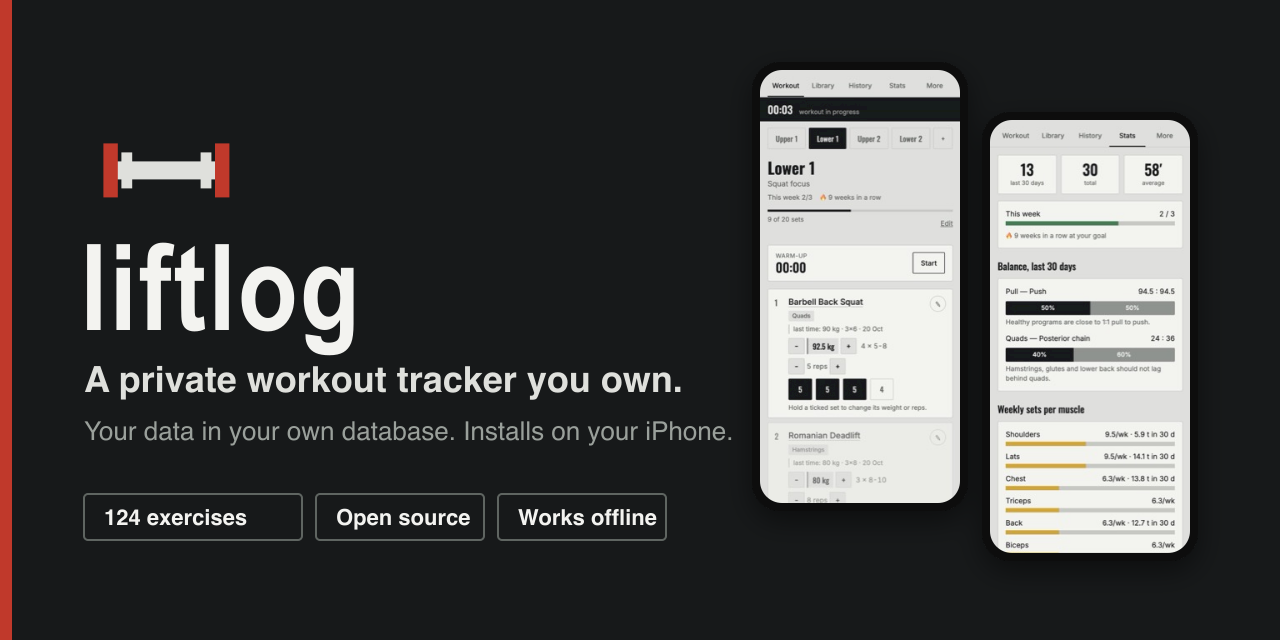
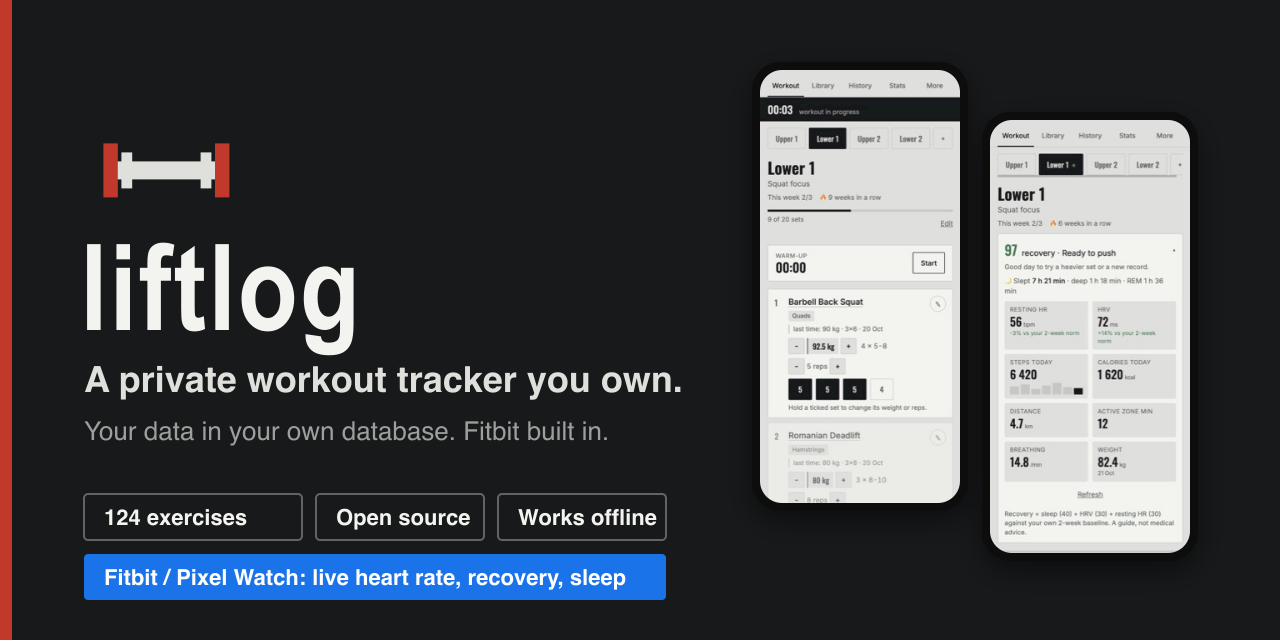
README and docs: full Fitbit integration description, setup, new screenshots (demo data), demo mode; mention the integration across the project

Changed region(s): [[0.7812, 0.2188, 0.9375, 0.875], [0.0625, 0.8438, 0.5312, 0.9375], [0.3438, 0.6562, 0.5625, 0.6875]]

diff --git a/src/health-demo.ts b/src/health-demo.ts
@@ -1,0 +1,74 @@
+/**
+ * Fake tracker data for screenshots and for trying the interface without a Fitbit.
+ * Only compiled in when the build sets VITE_HEALTH_DEMO=true; never used in a normal build.
+ * All numbers are invented.
+ */
+
+const dayKey = (d: Date) => `${d.getFullYear()}-${String(d.getMonth() + 1).padStart(2, '0')}-${String(d.getDate()).padStart(2, '0')}`
+
+function today() {
+  const now = new Date()
+  const back = (n: number) => dayKey(new Date(now.getTime() - n * 86_400_000))
+  const steps = [8420, 10210, 5630, 9120, 11840, 7450, 6420]
+  const kcal = [2480, 2710, 2290, 2560, 2890, 2430, 1620]
+  const dist = [6200, 7900, 4100, 6900, 9100, 5600, 4700]
+  const azm = [24, 41, 8, 33, 52, 27, 12]
+  const rhr = [56, 58, 58, 59, 58, 57, 60, 59, 58, 58, 59, 58, 57, 58]
+  const hrv = [72, 64, 66, 61, 63, 65, 62, 60, 66, 64, 63, 62, 65, 61]
+  return {
+    todayKey: back(0),
+    days: steps.map((s, i) => ({ date: back(6 - i), steps: s, kcal: kcal[i], distanceM: dist[i], azm: azm[i] })),
+    resting: rhr.map((bpm, i) => ({ date: back(i), bpm })),
+    hrv: hrv.map((ms, i) => ({ date: back(i), ms })),
+    respiratoryRate: 14.8,
+    weight: { kg: 82.4, atMs: now.getTime() - 2 * 86_400_000 },
+    sleep: {
+      startMs: now.getTime() - 9 * 3_600_000, endMs: now.getTime() - 1.6 * 3_600_000, minutesAsleep: 441, minutesAwake: 32,
+      stages: [{ type: 'DEEP', minutes: 78 }, { type: 'REM', minutes: 96 }, { type: 'LIGHT', minutes: 267 }, { type: 'AWAKE', minutes: 32 }],
+    },
+  }
+}
+
+let phase = 0
+
+/** A plausible workout heart-rate curve: warm-up, sets with peaks, rest valleys, cool-down. */
+function workoutPoints(): number[] {
+  return Array.from({ length: 90 }, (_, i) => {
+    const x = i / 89
+    const base = 88 + 40 * Math.min(1, x * 5)
+    const sets = 22 * Math.abs(Math.sin(x * Math.PI * 7)) * (x < 0.9 ? 1 : 0.2)
+    return Math.round(base + sets - 18 * Math.max(0, x - 0.88) * 6)
+  })
+}
+
+export function demoCall(body: Record<string, unknown>): unknown {
+  switch (body.action) {
+    case 'status':
+      return { configured: true, allowed: true, connected: true, connectedAt: new Date(Date.now() - 3 * 86_400_000).toISOString(), expiresAt: null, canWrite: true }
+    case 'today':
+      return today()
+    case 'live': {
+      phase += 1
+      const bpm = Math.round(132 + 24 * Math.sin(phase / 2.2))
+      return { bpm, atMs: Date.now() - 12_000 }
+    }
+    case 'workout': {
+      const points = workoutPoints()
+      return {
+        heartRate: { avg: 121, max: 162, min: 84, count: 1480, points },
+        exercise: { name: 'Strength training', type: 'STRENGTH_TRAINING', avgHr: 121, kcal: 318 },
+        latestSampleMs: Date.now(),
+      }
+    }
+    case 'exportWorkout':
+    case 'exportWeight':
+      return { created: true, name: 'users/demo/dataTypes/exercise/dataPoints/1' }
+    case 'deleteExport':
+    case 'disconnect':
+      return { ok: true }
+    case 'connect':
+      return { error: 'Demo mode: nothing to connect.' }
+    default:
+      return {}
+  }
+}

diff --git a/src/health.ts b/src/health.ts
@@ -2,7 +2,9 @@ import { cloudClient, cloudEnabled } from './cloud'
 import type { HealthSummary, WorkoutLog } from './types'
 
 /** The integration is optional: it needs a configured backend and the build flag. */
-export const healthEnabled = cloudEnabled && import.meta.env.VITE_ENABLE_GOOGLE_HEALTH === 'true'
+/** Build with VITE_HEALTH_DEMO=true to see the interface with invented tracker data (screenshots, trying the UI). */
+export const demoMode = import.meta.env.VITE_HEALTH_DEMO === 'true'
+export const healthEnabled = demoMode || (cloudEnabled && import.meta.env.VITE_ENABLE_GOOGLE_HEALTH === 'true')
 
 export interface HealthStatus { configured: boolean; allowed?: boolean; connected: boolean; connectedAt: string | null; expiresAt: string | null; canWrite?: boolean }
 export interface SleepInfo { startMs: number; endMs: number; minutesAsleep: number | null; minutesAwake: number | null; stages: { type: string; minutes: number | null }[] }
@@ -10,6 +12,10 @@ export interface SleepInfo { startMs: number; endMs: number; minutesAsleep: numb
 type Reply<T> = { ok: true; data: T } | { ok: false; error: string; reconnect?: boolean; notConnected?: boolean; needsWrite?: boolean }
 
 export async function call<T>(body: Record<string, unknown>): Promise<Reply<T>> {
+  if (demoMode) {
+    const { demoCall } = await import('./health-demo')
+    return { ok: true, data: demoCall(body) as T }
+  }
   const { data, error } = await cloudClient().functions.invoke('health', { body })
   if (!error) return { ok: true, data: data as T }
   let message = 'Could not reach the health service.'
@@ -134,13 +140,13 @@ export function refreshHealthStatus(): Promise<void> {
 export function useHealthStatus(signedIn: boolean): HealthStatus | null {
   const [, force] = useState(0)
   useEffect(() => {
-    if (!healthEnabled || !signedIn) return
+    if (!healthEnabled || !(signedIn || demoMode)) return
     const f = () => force((n) => n + 1)
     listeners.add(f)
     if (!cached) void refreshHealthStatus()
     return () => { listeners.delete(f) }
   }, [signedIn])
-  return healthEnabled && signedIn ? cached : null
+  return healthEnabled && (signedIn || demoMode) ? cached : null
 }
 
 export function clearHealthStatus(): void { cached = null; listeners.forEach((f) => f()) }

diff --git a/src/views/Health.tsx b/src/views/Health.tsx
@@ -1,6 +1,6 @@
 import { useEffect, useState } from 'preact/hooks'
 import { useCloud } from '../cloud'
-import { clearHealthStatus, connectHealth, disconnectHealth, fetchToday, fetchWorkoutHealth, fmtMinutes, refreshHealthStatus, useHealthStatus, type TodayData } from '../health'
+import { demoMode, clearHealthStatus, connectHealth, disconnectHealth, fetchToday, fetchWorkoutHealth, fmtMinutes, refreshHealthStatus, useHealthStatus, type TodayData } from '../health'
 import { recovery, vsBaseline } from '../logic'
 import { attachHealth, patchSettings, useStore } from '../store'
 import { sendWorkout } from '../export'
@@ -184,7 +184,7 @@ export function GoogleHealthCard() {
   const [busy, setBusy] = useState(false)
   const [msg, setMsg] = useState('')
 
-  if (!cloud.user) return null
+  if (!cloud.user && !demoMode) return null
   if (!status) return <div class="card"><div class="sub">Checking Google Health…</div></div>
 
   const connect = async (write = false) => {
@@ -220,7 +220,7 @@ export function GoogleHealthCard() {
         ) : status.connected ? (
           <>
             <h4>Connected</h4>
-            <div class="sub">Heart rate, calories and sleep are read from your tracker. Nothing is written back.{days !== null ? (days > 0 ? ` Access renews in ${days} day${days === 1 ? '' : 's'} (test mode).` : ' Access has expired: connect again.') : ''} Connected {dateShort(Date.parse(status.connectedAt ?? '') || Date.now())}.</div>
+            <div class="sub">Heart rate, calories and sleep are read from your tracker.{status.canWrite ? ' Sending workouts and weight to Google Health is allowed.' : ' Nothing is written back.'}{days !== null ? (days > 0 ? ` Access renews in ${days} day${days === 1 ? '' : 's'} (test mode).` : ' Access has expired: connect again.') : ''} Connected {dateShort(Date.parse(status.connectedAt ?? '') || Date.now())}.</div>
             <div class="row">
               {days !== null && days <= 2 && <button class="btn" disabled={busy} onClick={() => connect(!!status.canWrite)}>Reconnect</button>}
               <button class="btn ghost" disabled={busy} onClick={disconnect}>Disconnect</button>

diff --git a/index.html b/index.html
@@ -10,7 +10,7 @@
     <meta name="mobile-web-app-capable" content="yes" />
     <meta name="apple-mobile-web-app-status-bar-style" content="default" />
     <meta name="apple-mobile-web-app-title" content="liftlog" />
-    <meta name="description" content="Open-source workout tracker with an exercise library." />
+    <meta name="description" content="Open-source workout tracker with an exercise library and optional Fitbit / Pixel Watch integration: live heart rate, recovery and sleep." />
     <title>liftlog</title>
   </head>
   <body>

diff --git a/src/views/More.tsx b/src/views/More.tsx
@@ -15,7 +15,7 @@ export function MoreView() {
       <Backup />
       <h2 class="sec">About</h2>
       <div class="card">
-        <div class="sub">liftlog is open source (MIT). Exercise references link to videos made by their authors.</div>
+        <div class="sub">liftlog is open source (MIT). Exercise references link to videos made by their authors. Connect a Fitbit or Pixel Watch above for live heart rate, recovery and sleep (setup guide in the repository: docs/GOOGLE-HEALTH.md).</div>
       </div>
     </div>
   )

diff --git a/src/vite-env.d.ts b/src/vite-env.d.ts
@@ -5,6 +5,8 @@ interface ImportMetaEnv {
   readonly VITE_SUPABASE_ANON_KEY?: string
   /** set to "true" to show the optional Google Health (Fitbit) integration */
   readonly VITE_ENABLE_GOOGLE_HEALTH?: string
+  /** "true" shows the integration with invented data (screenshots / trying the UI); never set in production */
+  readonly VITE_HEALTH_DEMO?: string
 }
 interface ImportMeta {
   readonly env: ImportMetaEnv

diff --git a/vite.config.ts b/vite.config.ts
@@ -15,7 +15,7 @@ export default defineConfig({
       manifest: {
         name: 'liftlog',
         short_name: 'liftlog',
-        description: 'Open-source workout tracker with an exercise library.',
+        description: 'Open-source workout tracker with an exercise library and optional Fitbit / Pixel Watch integration.',
         start_url: base,
         scope: base,
         display: 'standalone',

diff --git a/README.md b/README.md
@@ -4,15 +4,16 @@
 
 # liftlog
 
-**A private workout tracker you own.**<br />
-Plan your training, log every set, learn every exercise, and keep your data in *your* database. Free, open source, installs on your iPhone like an app.
+**A private workout tracker you own, with your Fitbit built in.**<br />
+Plan your training, log every set, learn every exercise, see your **live heart rate, recovery and sleep** from a Fitbit or Pixel Watch, and keep all of it in *your* database. Free, open source, installs on your iPhone like an app.
 
 [![CI](https://github.com/boardotmeme-dot/liftlog/actions/workflows/ci.yml/badge.svg)](https://github.com/boardotmeme-dot/liftlog/actions/workflows/ci.yml)
 [![License: MIT](https://img.shields.io/badge/license-MIT-black.svg)](LICENSE)
 ![PWA](https://img.shields.io/badge/PWA-offline%20ready-2F7D4F)
 ![Exercises](https://img.shields.io/badge/exercises-124-C0392B)
+![Fitbit](https://img.shields.io/badge/Fitbit%20%2F%20Pixel%20Watch-Google%20Health%20API-1A73E8)
 
-[**Try the demo**](https://liftlog-neon-iota.vercel.app) · [**Self-host in 15 minutes**](docs/SETUP.md) · [**Install on iPhone**](docs/INSTALL-ON-PHONE.md)
+[**Try the demo**](https://liftlog-neon-iota.vercel.app) · [**Self-host in 15 minutes**](docs/SETUP.md) · [**Connect your Fitbit**](docs/GOOGLE-HEALTH.md) · [**Install on iPhone**](docs/INSTALL-ON-PHONE.md)
 
 </div>
 
@@ -23,6 +24,15 @@ Plan your training, log every set, learn every exercise, and keep your data in *
   &nbsp;
   <img src="docs/screenshots/stats.jpg" width="250" alt="Stats: weekly goal, push/pull balance, sets per muscle" />
 </p>
+
+<p align="center">
+  <img src="docs/screenshots/health-live.jpg" width="250" alt="Live heart rate in the top bar with zone colour, and heart rate while resting between sets" />
+  &nbsp;
+  <img src="docs/screenshots/health-today.jpg" width="250" alt="Today panel with recovery score, sleep, resting heart rate, HRV, steps" />
+  &nbsp;
+  <img src="docs/screenshots/health-workout.jpg" width="250" alt="Workout history with heart-rate chart and calories from the tracker" />
+</p>
+<p align="center"><sub>Fitbit / Pixel Watch integration (optional): live heart rate while you lift, a recovery score from your sleep and HRV, and a heart-rate chart on every workout. Screenshots use invented demo data.</sub></p>
 
 ---
 
@@ -35,6 +45,7 @@ Most workout apps want an account on *their* server, a subscription, and your da
 * **You own the data.** Deploy your own copy and connect your own free [Supabase](https://supabase.com) database. Nobody else, including the author of this project, can see your training. [How privacy works →](docs/PRIVACY.md)
 * **Works without any server.** Skip the database and everything stays in your browser. Add it later when you want sync between devices.
 * **Feels like a real app.** Install it from Safari to your Home Screen, use it offline in the gym, with a rest timer and the screen kept awake.
+* **Knows how your body is doing.** Connect a Fitbit or Pixel Watch and liftlog shows live heart rate during sets, a recovery score, sleep and HRV next to your training. [See how →](#fitbit-and-pixel-watch-integration)
 * **Teaches you the lifts.** 124 exercises, each with setup, steps, cues, common mistakes and hand-picked video references with previews.
 * **No lock-in, no tracking, no ads.** MIT licensed. Export everything as JSON any time.
 
@@ -93,28 +104,83 @@ Create the Supabase project and run the SQL **before** you press the button, the
 
 ## Fitbit and Pixel Watch integration
 
-An optional module that connects liftlog to the **Google Health API** (the successor of the Fitbit Web API) so your training and your body live in one place. It was built and tested with a **Fitbit Air**.
+An optional module that connects liftlog to the **Google Health API** (the successor of the Fitbit Web API) so your training and your body live in one place. It works with Fitbit trackers and Pixel Watches, was built and tested with a **Fitbit Air**, and runs entirely through **your own** Supabase project and **your own** Google Cloud app.
 
-| | |
-|---|---|
-| **Live heart rate** | Shown at the top while you train, colour-coded by zone, with a *recovering → recovered* hint between sets and an **alert** (banner, vibration, beep) when you reach a chosen share of your max heart rate |
-| **Recovery score** | 0-100 from last night's sleep, your HRV and your resting heart rate against *your own* two-week norm, with a plain suggestion ("Ready to push" / "Take it easy") |
-| **Today panel** | Sleep with deep and REM, resting heart rate, HRV, steps with a 7-day chart, calories, distance, active zone minutes, breathing rate, weight |
-| **Per workout** | Average / max / min heart rate, a heart-rate chart and calories, attached to the workout in your history |
-| **Trends** | Two-week resting heart rate and HRV, weekly steps |
-| **Write-back** *(opt-in)* | Send finished workouts (exercises and sets in the notes) and body weight to Google Health. Never duplicates a session your tracker already recorded, and removes what it added when you delete the entry |
+### What you get
+
+<table>
+<tr>
+<td width="50%" valign="top">
+
+**Live heart rate while you lift**<br />
+Your current heart rate sits in the top bar, coloured by zone (easy, fat burn, cardio, hard, max). Between sets it tells you if you are *recovering* or *recovered*. Pick your max heart rate and an alert level, and liftlog warns you with a banner, vibration and beep when you get there.
+
+**Recovery score**<br />
+0-100 from last night's sleep, today's HRV and your resting heart rate, compared with *your own* two-week norm. It ends in a plain suggestion: *Ready to push*, *Normal day* or *Take it easy*.
+
+**Today panel**<br />
+Sleep with deep and REM, resting heart rate, HRV, steps with a 7-day chart, calories, distance, active zone minutes, breathing rate and weight.
+
+</td>
+<td width="50%" valign="top">
+
+**Heart rate on every workout**<br />
+After you finish, liftlog attaches average, max and min heart rate, a heart-rate chart and calories to the workout in your history.
+
+**Trends**<br />
+Two-week resting heart rate and HRV, weekly steps, and a body-weight log with trend (the weight log also works without a tracker).
+
+**Send data back (opt-in)**<br />
+Allow writing and liftlog can send finished workouts, with your exercises and sets in the notes, and your body weight to Google Health. It never duplicates a session your tracker already recorded, and removes what it added when you delete the entry.
+
+**Private by design**<br />
+Tokens stay on your server, permissions are read-only unless you switch writing on, and one tap disconnects.
+
+</td>
+</tr>
+</table>
+
+<p align="center">
+  <img src="docs/screenshots/health-settings.jpg" width="250" alt="Google Health settings: connection, heart-rate alerts, sending workouts and weight" />
+  &nbsp;
+  <img src="docs/screenshots/health-body.jpg" width="250" alt="Stats: resting heart rate and HRV trends and the body-weight log" />
+</p>
+
+### How it works
 
 ```
-phone ──▶ liftlog ──▶ Supabase Edge Function ──▶ Google Health API ──▶ your Fitbit data
-          (browser)    (keeps the Google secret       (read-only by default)
-                        and token; you own it)
+phone ──▶ liftlog (browser) ──▶ Supabase Edge Function ──▶ Google Health API ──▶ your Fitbit data
+                                 keeps the Google secret and token;
+                                 you own it, the browser never sees a token
 ```
 
-**Your data stays yours.** The Google token is kept in *your* Supabase project, in a table no browser can read; the app only receives small summaries. Permissions are read-only unless you switch writing on, and you can disconnect (which revokes the token) at any time.
+The tracker uploads to Google about once a minute, liftlog asks your Edge Function for the latest sample every ~20 seconds during a workout, so "live" is near-live. Everything in the full guide below is explained in detail.
 
-**Setup takes about 20 minutes**: a Google Cloud project, two SQL files, two Edge Functions and three secrets. Everything is explained step by step, with troubleshooting, in **[docs/GOOGLE-HEALTH.md](docs/GOOGLE-HEALTH.md)**.
+### Set it up (about 20 minutes)
 
-> **Good to know:** Google treats all Health API permissions as *restricted*. An unverified app (every self-hosted copy) works for up to 100 people and shows Google's "unverified app" screen once; in *Testing* mode connections last 7 days. The guide explains how to publish your own app for long-lived connections. The fitness tracker syncs to Google about once a minute, so "live" heart rate is near-live.
+You need liftlog running with Supabase accounts ([SETUP.md](docs/SETUP.md)), the **Google Health** app on your phone signed in with the account your tracker uses, and a free Google Cloud project.
+
+1. **Google Cloud:** create a project, enable the **Google Health API**, set the consent screen to *External / Testing* and add yourself as a test user, add the three **read-only** scopes (activity and fitness, health metrics and measurements, sleep), and create a **Web application** OAuth client with the redirect URI `https://<your-project-ref>.supabase.co/functions/v1/health-callback`. Copy the Client ID and Client secret.
+2. **Database:** run `supabase/migrations/0002_google_health.sql` (and `0003_body_logs.sql` for the weight log) in the Supabase SQL Editor.
+3. **Functions and secrets:**
+   ```bash
+   supabase link --project-ref <your-project-ref>
+   supabase functions deploy health
+   supabase functions deploy health-callback --no-verify-jwt
+   supabase secrets set GOOGLE_CLIENT_ID=... GOOGLE_CLIENT_SECRET=... APP_URL=https://your-site.vercel.app
+   ```
+4. **Switch it on:** add `VITE_ENABLE_GOOGLE_HEALTH=true` to your Vercel environment variables and redeploy.
+5. **Connect:** in the app open **More → Google Health (Fitbit) → Connect**. On Google's page choose **Advanced → Go to liftlog** (Google shows an "unverified app" notice for your own app) and allow the read-only permissions.
+6. **Optional:** to send workouts and weight back, add the two `writeonly` scopes in Google Cloud and press **Allow writing** in the app.
+
+The complete guide, with every setting, the exact data used, privacy details and a troubleshooting table, is **[docs/GOOGLE-HEALTH.md](docs/GOOGLE-HEALTH.md)**.
+
+### Good to know
+
+* Google treats all Health API permissions as *restricted*. An unverified app (every self-hosted copy) works for **up to 100 people** and shows Google's "unverified app" screen once. In *Testing* mode connections last **7 days**; the guide shows how to publish your own app for long-lived connections.
+* On a **shared demo**, anyone who connects stores their Google token in the host's database, and the app tells them so first. For private use, host your own copy. A server owner can restrict the integration to specific accounts with the `HEALTH_ALLOWED_EMAILS` secret.
+* Not every tracker records everything (the Fitbit Air has no SpO₂ or VO₂ max, so those are not shown).
+* To look at the screens without a tracker, build with `VITE_HEALTH_DEMO=true`: the interface fills with invented data (this is how the screenshots above were made).
 
 ## Install on your phone
 

diff --git a/docs/GOOGLE-HEALTH.md b/docs/GOOGLE-HEALTH.md
@@ -6,6 +6,15 @@ Everything runs through **your own** Google Cloud app and **your own** Supabase 
 
 > The old Fitbit Web API is switched off on 30 October 2026. This integration uses its replacement, the Google Health API (v4).
 
+<p align="center">
+  <img src="screenshots/health-live.jpg" width="230" alt="Live heart rate and rest recovery" />
+  &nbsp;
+  <img src="screenshots/health-today.jpg" width="230" alt="Today panel with recovery score" />
+  &nbsp;
+  <img src="screenshots/health-workout.jpg" width="230" alt="Heart-rate chart on a workout" />
+</p>
+<p align="center"><sub>Screenshots use invented demo data.</sub></p>
+
 ## Contents
 
 1. [What you get](#1-what-you-get)
@@ -235,6 +244,11 @@ Off by default. It needs extra permission that you grant explicitly.
 | `exportWorkout`, `exportWeight`, `deleteExport` | writing and removing (needs write access) |
 
 ## 11. Developer tools
+
+* **Demo mode.** Build or run with `VITE_HEALTH_DEMO=true` and the whole integration appears with **invented** tracker data, with no Google account or backend needed. It is how the screenshots in this repository were made, and a quick way to look at the interface. It is compiled out of normal builds (`src/health-demo.ts`).
+  ```bash
+  VITE_HEALTH_DEMO=true npm run dev
+  ```
 
 * `bash scripts/google-health-check.sh <CLIENT_ID>`: checks that your Google setup works (asks for the client secret, hidden, prints no tokens) and lists which data types your device returns.
 * `python3 scripts/google-health-probe.py <CLIENT_ID> [--shapes] [--write-test]`: prints the raw shape of each data type; `--write-test` creates and immediately deletes one tiny test workout and weight entry. Output is also saved to `scripts/.probe-output.txt` (git-ignored; it contains your health numbers, do not share it).

diff --git a/docs/INSTALL-ON-PHONE.md b/docs/INSTALL-ON-PHONE.md
@@ -24,6 +24,15 @@ Done. From now on every workout syncs to your own database.
 * To update, just open the app. New versions load in the background and appear the next time you launch it.
 * To remove it: touch and hold the icon → **Remove App**. Your data in Supabase is untouched.
 
+## Your Fitbit or Pixel Watch in the app
+
+If you set up the [Fitbit integration](GOOGLE-HEALTH.md), the installed app shows your **live heart rate** during workouts, a recovery score and sleep. Keep these in mind on a phone:
+
+* The **Google Health** app must be installed and allowed to run in the background, because it is what uploads your tracker's data. If liftlog shows "N min ago" next to your heart rate, open the Google Health app once.
+* Keep liftlog open and the screen on during a workout (it asks the phone to keep the screen awake). Live heart rate is only fetched while the app is visible.
+* iPhones do not support web vibration, so heart-rate alerts use the on-screen banner and a beep (check the ringer switch).
+* Sign in **inside the installed app** (it has its own storage), then connect Google Health from **More**.
+
 ## Android
 
 1. Open your address in **Chrome**.

diff --git a/SECURITY.md b/SECURITY.md
@@ -7,6 +7,7 @@ Please **do not open a public issue** for security problems. Use GitHub's privat
 ## Scope and design
 
 * liftlog is a static web app. All access control is enforced by the database with **Row Level Security** (see [`supabase/migrations/0001_init.sql`](supabase/migrations/0001_init.sql)). A policy mistake is a security bug, please report it.
+* The optional Fitbit / Google Health integration stores a Google OAuth **refresh token** per user in `health_connections` (Row Level Security on, no policies, no grants for client roles) and a short-lived `state` in `health_oauth_states`; only the Edge Functions can read them. Anything that exposes those tables, a token or the client secret to a browser is a critical bug: please report it privately.
 * The app only uses the public project URL and the anon/publishable key. **The `service_role` / secret key must never be placed in this app, its `.env` files or Vercel environment variables.** If you ever committed one, rotate it in the Supabase dashboard immediately.
 * The catalog references third-party videos by link only. Reports of unsafe or malicious links are welcome and are treated as security issues.
 

diff --git a/CONTRIBUTING.md b/CONTRIBUTING.md
@@ -30,6 +30,7 @@ npm test
 npm run typecheck
 ```
 
+* **Working on the Fitbit / Google Health integration?** You do not need a tracker: `VITE_HEALTH_DEMO=true npm run dev` shows the whole feature with invented data (`src/health-demo.ts`). The server side is in `supabase/functions/health`; see [docs/GOOGLE-HEALTH.md](docs/GOOGLE-HEALTH.md). Never commit client secrets, tokens or real health data (the probe output file is git-ignored for that reason).
 * UI is Preact + TypeScript. Keep dependencies minimal.
 * Put logic in `src/logic.ts` (pure, tested) rather than in components.
 * Weights are stored in kg; use `src/units.ts` to display or read them.
